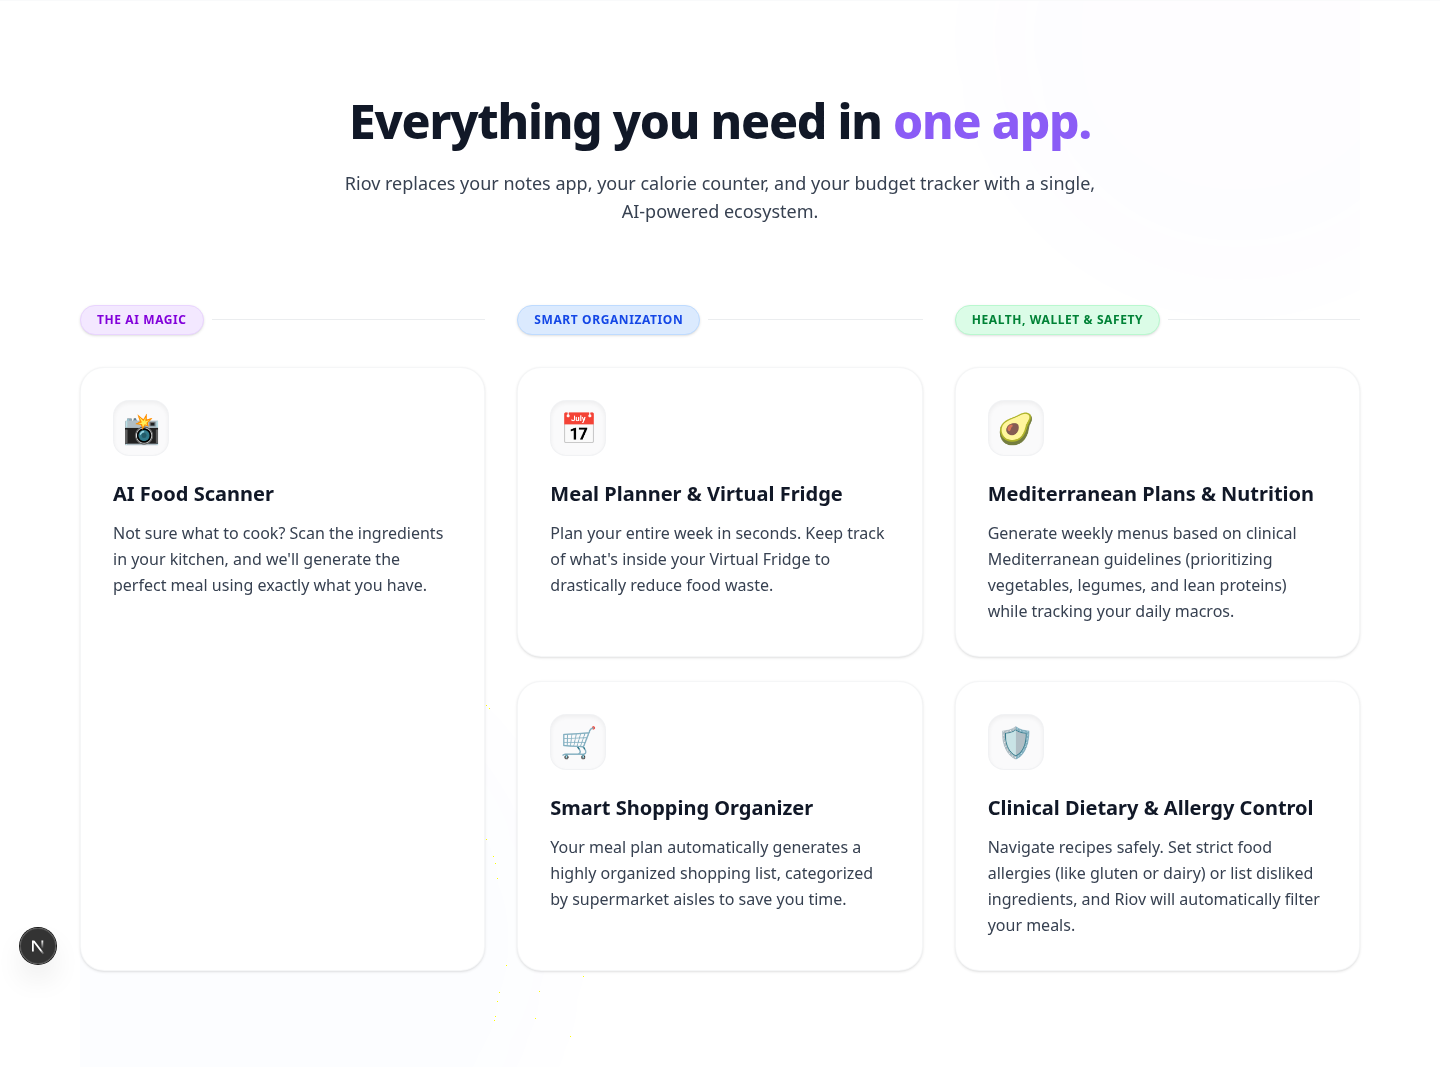
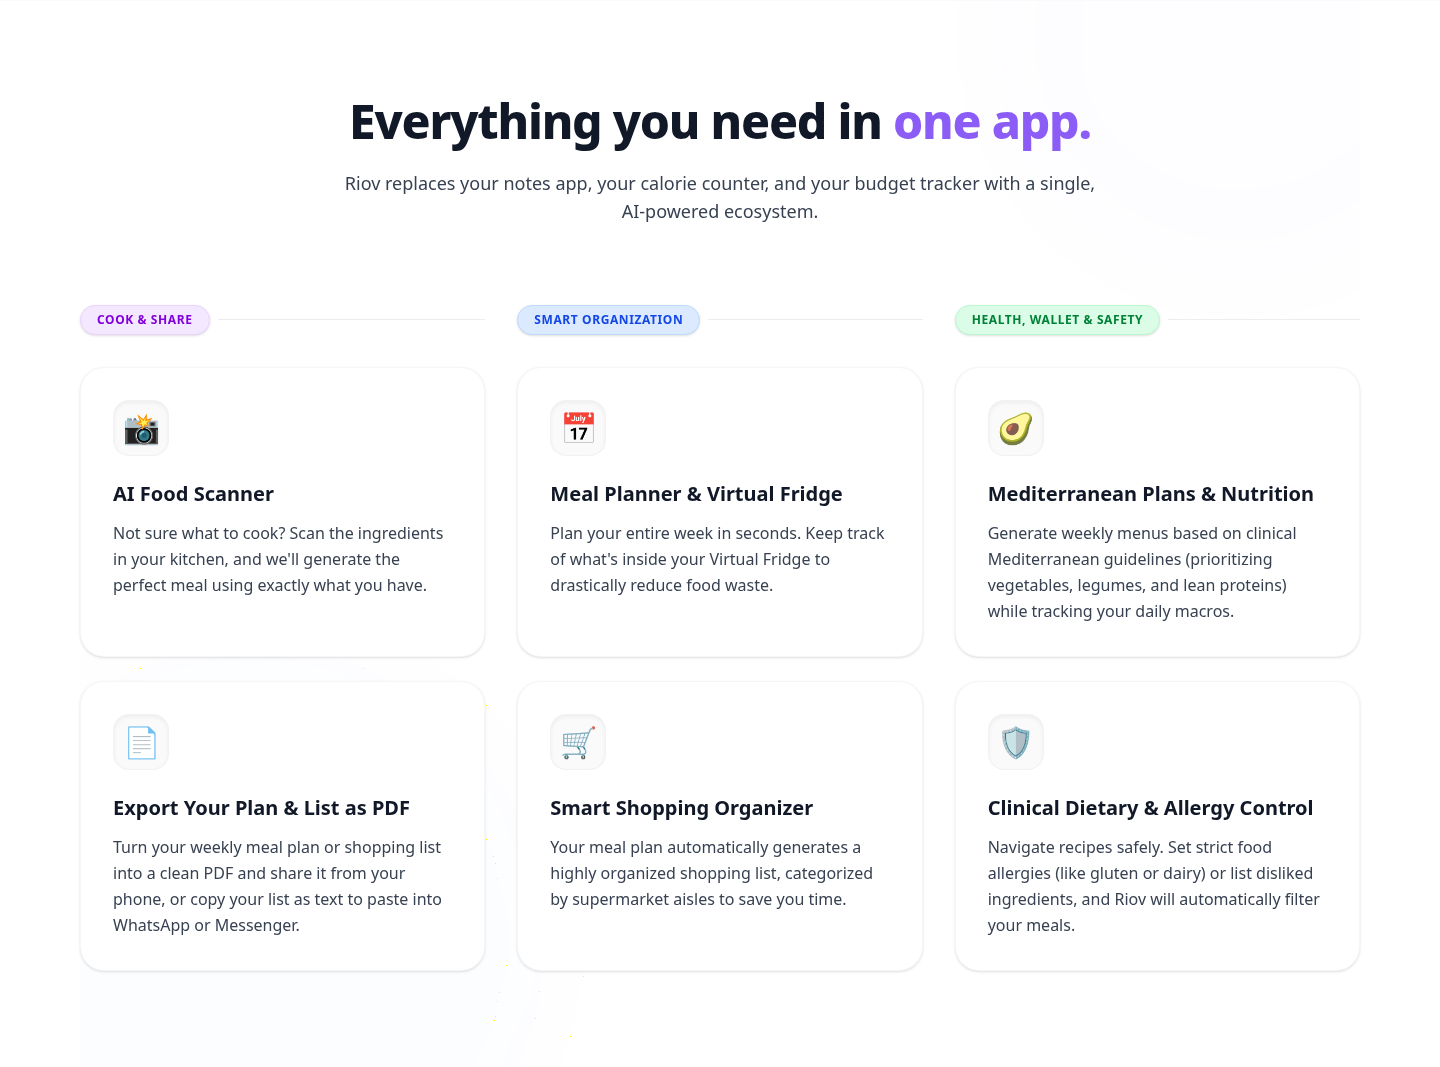
Features: add PDF export card, rename AI Magic column to Cook & Share; refresh screenshots

diff --git a/novanutri-nextjs/components/Features.tsx b/novanutri-nextjs/components/Features.tsx
@@ -1,13 +1,18 @@
 export default function Features() {
   const features = [
     {
-      category: "The AI Magic",
+      category: "Cook & Share",
       badgeColor: "bg-purple-100 text-purple-700 border-purple-200",
       items: [
         {
           title: "AI Food Scanner",
           description: "Not sure what to cook? Scan the ingredients in your kitchen, and we'll generate the perfect meal using exactly what you have.",
           icon: "📸"
+        },
+        {
+          title: "Export Your Plan & List as PDF",
+          description: "Turn your weekly meal plan or shopping list into a clean PDF and share it from your phone, or copy your list as text to paste into WhatsApp or Messenger.",
+          icon: "📄"
         }
       ]
     },
